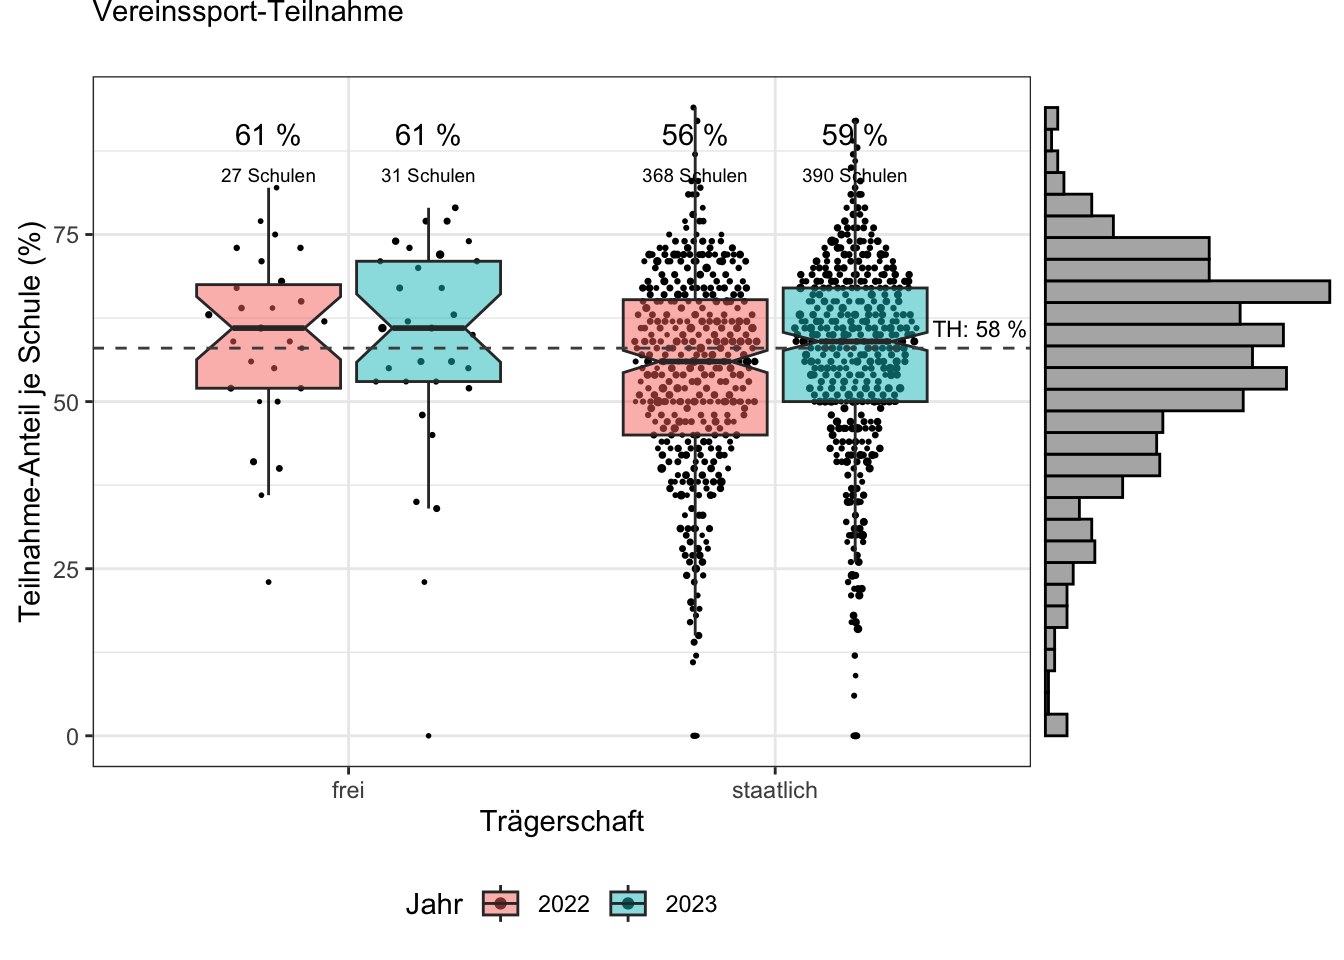
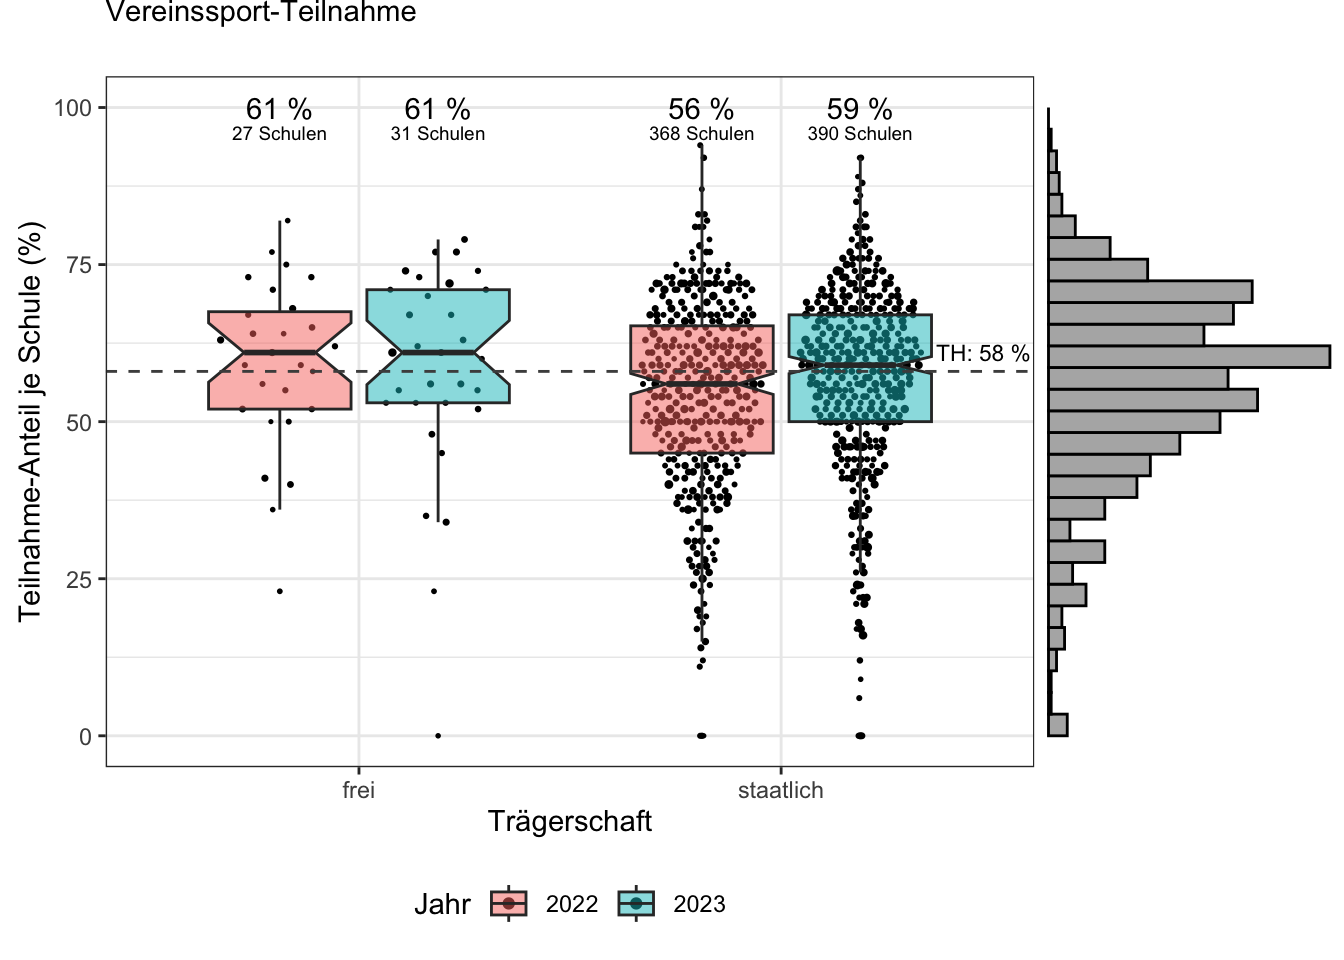
018

diff --git a/docs/018.html b/docs/018.html
@@ -376,23 +376,23 @@ ul.task-list li input[type="checkbox"] {
 <div class="cell">
 <div class="cell-output-display">
 
-<div id="jmpnuwddgn" style="padding-left:0px;padding-right:0px;padding-top:10px;padding-bottom:10px;overflow-x:auto;overflow-y:auto;width:auto;height:auto;">
-<style>#jmpnuwddgn table {
+<div id="cispxkkene" style="padding-left:0px;padding-right:0px;padding-top:10px;padding-bottom:10px;overflow-x:auto;overflow-y:auto;width:auto;height:auto;">
+<style>#cispxkkene table {
   font-family: system-ui, 'Segoe UI', Roboto, Helvetica, Arial, sans-serif, 'Apple Color Emoji', 'Segoe UI Emoji', 'Segoe UI Symbol', 'Noto Color Emoji';
   -webkit-font-smoothing: antialiased;
   -moz-osx-font-smoothing: grayscale;
 }
 
-#jmpnuwddgn thead, #jmpnuwddgn tbody, #jmpnuwddgn tfoot, #jmpnuwddgn tr, #jmpnuwddgn td, #jmpnuwddgn th {
+#cispxkkene thead, #cispxkkene tbody, #cispxkkene tfoot, #cispxkkene tr, #cispxkkene td, #cispxkkene th {
   border-style: none;
 }
 
-#jmpnuwddgn p {
+#cispxkkene p {
   margin: 0;
   padding: 0;
 }
 
-#jmpnuwddgn .gt_table {
+#cispxkkene .gt_table {
   display: table;
   border-collapse: collapse;
   line-height: normal;
@@ -418,12 +418,12 @@ ul.task-list li input[type="checkbox"] {
   border-left-color: #D3D3D3;
 }
 
-#jmpnuwddgn .gt_caption {
+#cispxkkene .gt_caption {
   padding-top: 4px;
   padding-bottom: 4px;
 }
 
-#jmpnuwddgn .gt_title {
+#cispxkkene .gt_title {
   color: #333333;
   font-size: 125%;
   font-weight: initial;
@@ -435,7 +435,7 @@ ul.task-list li input[type="checkbox"] {
   border-bottom-width: 0;
 }
 
-#jmpnuwddgn .gt_subtitle {
+#cispxkkene .gt_subtitle {
   color: #333333;
   font-size: 85%;
   font-weight: initial;
@@ -447,7 +447,7 @@ ul.task-list li input[type="checkbox"] {
   border-top-width: 0;
 }
 
-#jmpnuwddgn .gt_heading {
+#cispxkkene .gt_heading {
   background-color: #FFFFFF;
   text-align: center;
   border-bottom-color: #FFFFFF;
@@ -459,13 +459,13 @@ ul.task-list li input[type="checkbox"] {
   border-right-color: #D3D3D3;
 }
 
-#jmpnuwddgn .gt_bottom_border {
+#cispxkkene .gt_bottom_border {
   border-bottom-style: solid;
   border-bottom-width: 2px;
   border-bottom-color: #D3D3D3;
 }
 
-#jmpnuwddgn .gt_col_headings {
+#cispxkkene .gt_col_headings {
   border-top-style: solid;
   border-top-width: 2px;
   border-top-color: #D3D3D3;
@@ -480,7 +480,7 @@ ul.task-list li input[type="checkbox"] {
   border-right-color: #D3D3D3;
 }
 
-#jmpnuwddgn .gt_col_heading {
+#cispxkkene .gt_col_heading {
   color: #333333;
   background-color: #FFFFFF;
   font-size: 100%;
@@ -500,7 +500,7 @@ ul.task-list li input[type="checkbox"] {
   overflow-x: hidden;
 }
 
-#jmpnuwddgn .gt_column_spanner_outer {
+#cispxkkene .gt_column_spanner_outer {
   color: #333333;
   background-color: #FFFFFF;
   font-size: 100%;
@@ -512,15 +512,15 @@ ul.task-list li input[type="checkbox"] {
   padding-right: 4px;
 }
 
-#jmpnuwddgn .gt_column_spanner_outer:first-child {
+#cispxkkene .gt_column_spanner_outer:first-child {
   padding-left: 0;
 }
 
-#jmpnuwddgn .gt_column_spanner_outer:last-child {
+#cispxkkene .gt_column_spanner_outer:last-child {
   padding-right: 0;
 }
 
-#jmpnuwddgn .gt_column_spanner {
+#cispxkkene .gt_column_spanner {
   border-bottom-style: solid;
   border-bottom-width: 2px;
   border-bottom-color: #D3D3D3;
@@ -532,11 +532,11 @@ ul.task-list li input[type="checkbox"] {
   width: 100%;
 }
 
-#jmpnuwddgn .gt_spanner_row {
+#cispxkkene .gt_spanner_row {
   border-bottom-style: hidden;
 }
 
-#jmpnuwddgn .gt_group_heading {
+#cispxkkene .gt_group_heading {
   padding-top: 8px;
   padding-bottom: 8px;
   padding-left: 5px;
@@ -562,7 +562,7 @@ ul.task-list li input[type="checkbox"] {
   text-align: left;
 }
 
-#jmpnuwddgn .gt_empty_group_heading {
+#cispxkkene .gt_empty_group_heading {
   padding: 0.5px;
   color: #333333;
   background-color: #FFFFFF;
@@ -577,15 +577,15 @@ ul.task-list li input[type="checkbox"] {
   vertical-align: middle;
 }
 
-#jmpnuwddgn .gt_from_md > :first-child {
+#cispxkkene .gt_from_md > :first-child {
   margin-top: 0;
 }
 
-#jmpnuwddgn .gt_from_md > :last-child {
+#cispxkkene .gt_from_md > :last-child {
   margin-bottom: 0;
 }
 
-#jmpnuwddgn .gt_row {
+#cispxkkene .gt_row {
   padding-top: 8px;
   padding-bottom: 8px;
   padding-left: 5px;
@@ -604,7 +604,7 @@ ul.task-list li input[type="checkbox"] {
   overflow-x: hidden;
 }
 
-#jmpnuwddgn .gt_stub {
+#cispxkkene .gt_stub {
   color: #333333;
   background-color: #FFFFFF;
   font-size: 100%;
@@ -617,7 +617,7 @@ ul.task-list li input[type="checkbox"] {
   padding-right: 5px;
 }
 
-#jmpnuwddgn .gt_stub_row_group {
+#cispxkkene .gt_stub_row_group {
   color: #333333;
   background-color: #FFFFFF;
   font-size: 100%;
@@ -631,15 +631,15 @@ ul.task-list li input[type="checkbox"] {
   vertical-align: top;
 }
 
-#jmpnuwddgn .gt_row_group_first td {
+#cispxkkene .gt_row_group_first td {
   border-top-width: 2px;
 }
 
-#jmpnuwddgn .gt_row_group_first th {
+#cispxkkene .gt_row_group_first th {
   border-top-width: 2px;
 }
 
-#jmpnuwddgn .gt_summary_row {
+#cispxkkene .gt_summary_row {
   color: #333333;
   background-color: #FFFFFF;
   text-transform: inherit;
@@ -649,16 +649,16 @@ ul.task-list li input[type="checkbox"] {
   padding-right: 5px;
 }
 
-#jmpnuwddgn .gt_first_summary_row {
+#cispxkkene .gt_first_summary_row {
   border-top-style: solid;
   border-top-color: #D3D3D3;
 }
 
-#jmpnuwddgn .gt_first_summary_row.thick {
+#cispxkkene .gt_first_summary_row.thick {
   border-top-width: 2px;
 }
 
-#jmpnuwddgn .gt_last_summary_row {
+#cispxkkene .gt_last_summary_row {
   padding-top: 8px;
   padding-bottom: 8px;
   padding-left: 5px;
@@ -668,7 +668,7 @@ ul.task-list li input[type="checkbox"] {
   border-bottom-color: #D3D3D3;
 }
 
-#jmpnuwddgn .gt_grand_summary_row {
+#cispxkkene .gt_grand_summary_row {
   color: #333333;
   background-color: #FFFFFF;
   text-transform: inherit;
@@ -678,7 +678,7 @@ ul.task-list li input[type="checkbox"] {
   padding-right: 5px;
 }
 
-#jmpnuwddgn .gt_first_grand_summary_row {
+#cispxkkene .gt_first_grand_summary_row {
   padding-top: 8px;
   padding-bottom: 8px;
   padding-left: 5px;
@@ -688,7 +688,7 @@ ul.task-list li input[type="checkbox"] {
   border-top-color: #D3D3D3;
 }
 
-#jmpnuwddgn .gt_last_grand_summary_row_top {
+#cispxkkene .gt_last_grand_summary_row_top {
   padding-top: 8px;
   padding-bottom: 8px;
   padding-left: 5px;
@@ -698,11 +698,11 @@ ul.task-list li input[type="checkbox"] {
   border-bottom-color: #D3D3D3;
 }
 
-#jmpnuwddgn .gt_striped {
+#cispxkkene .gt_striped {
   background-color: rgba(128, 128, 128, 0.05);
 }
 
-#jmpnuwddgn .gt_table_body {
+#cispxkkene .gt_table_body {
   border-top-style: solid;
   border-top-width: 2px;
   border-top-color: #D3D3D3;
@@ -711,7 +711,7 @@ ul.task-list li input[type="checkbox"] {
   border-bottom-color: #D3D3D3;
 }
 
-#jmpnuwddgn .gt_footnotes {
+#cispxkkene .gt_footnotes {
   color: #333333;
   background-color: #FFFFFF;
   border-bottom-style: none;
@@ -725,7 +725,7 @@ ul.task-list li input[type="checkbox"] {
   border-right-color: #D3D3D3;
 }
 
-#jmpnuwddgn .gt_footnote {
+#cispxkkene .gt_footnote {
   margin: 0px;
   font-size: 90%;
   padding-top: 4px;
@@ -734,7 +734,7 @@ ul.task-list li input[type="checkbox"] {
   padding-right: 5px;
 }
 
-#jmpnuwddgn .gt_sourcenotes {
+#cispxkkene .gt_sourcenotes {
   color: #333333;
   background-color: #FFFFFF;
   border-bottom-style: none;
@@ -748,7 +748,7 @@ ul.task-list li input[type="checkbox"] {
   border-right-color: #D3D3D3;
 }
 
-#jmpnuwddgn .gt_sourcenote {
+#cispxkkene .gt_sourcenote {
   font-size: 90%;
   padding-top: 4px;
   padding-bottom: 4px;
@@ -756,63 +756,63 @@ ul.task-list li input[type="checkbox"] {
   padding-right: 5px;
 }
 
-#jmpnuwddgn .gt_left {
+#cispxkkene .gt_left {
   text-align: left;
 }
 
-#jmpnuwddgn .gt_center {
+#cispxkkene .gt_center {
   text-align: center;
 }
 
-#jmpnuwddgn .gt_right {
+#cispxkkene .gt_right {
   text-align: right;
   font-variant-numeric: tabular-nums;
 }
 
-#jmpnuwddgn .gt_font_normal {
+#cispxkkene .gt_font_normal {
   font-weight: normal;
 }
 
-#jmpnuwddgn .gt_font_bold {
+#cispxkkene .gt_font_bold {
   font-weight: bold;
 }
 
-#jmpnuwddgn .gt_font_italic {
+#cispxkkene .gt_font_italic {
   font-style: italic;
 }
 
-#jmpnuwddgn .gt_super {
+#cispxkkene .gt_super {
   font-size: 65%;
 }
 
-#jmpnuwddgn .gt_footnote_marks {
+#cispxkkene .gt_footnote_marks {
   font-size: 75%;
   vertical-align: 0.4em;
   position: initial;
 }
 
-#jmpnuwddgn .gt_asterisk {
+#cispxkkene .gt_asterisk {
   font-size: 100%;
   vertical-align: 0;
 }
 
-#jmpnuwddgn .gt_indent_1 {
+#cispxkkene .gt_indent_1 {
   text-indent: 5px;
 }
 
-#jmpnuwddgn .gt_indent_2 {
+#cispxkkene .gt_indent_2 {
   text-indent: 10px;
 }
 
-#jmpnuwddgn .gt_indent_3 {
+#cispxkkene .gt_indent_3 {
   text-indent: 15px;
 }
 
-#jmpnuwddgn .gt_indent_4 {
+#cispxkkene .gt_indent_4 {
   text-indent: 20px;
 }
 
-#jmpnuwddgn .gt_indent_5 {
+#cispxkkene .gt_indent_5 {
   text-indent: 25px;
 }
 </style>
